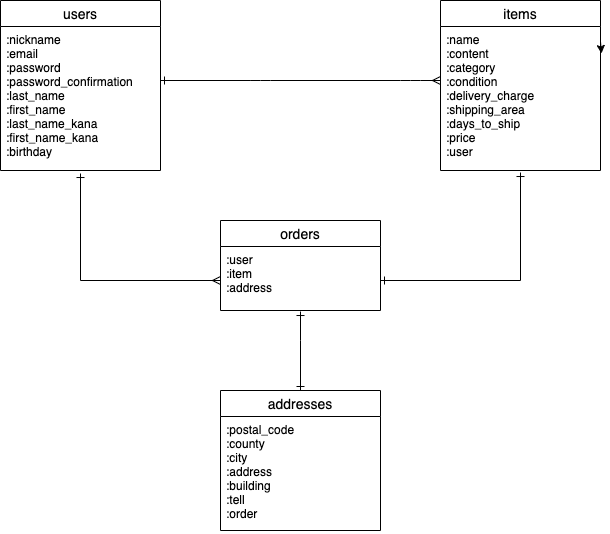
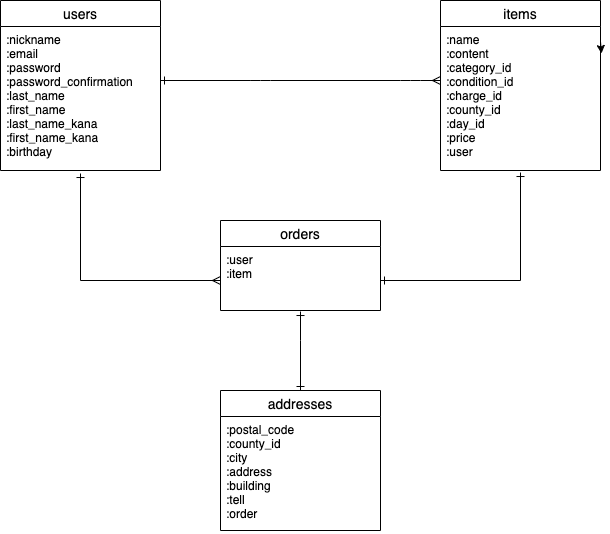
修正①

Changed region(s): [[0.7475, 0.1199, 0.8721, 0.2397], [0.3738, 0.5094, 0.4361, 0.5693], [0.4361, 0.809, 0.4672, 0.839]]

diff --git a/README.md b/README.md
@@ -22,11 +22,11 @@
 | --------------------- | ---------- | ------------------------------ |
 | name                  | string     | null: false                    |
 | content               | text       | null: false                    |
-| category              | string     | null: false                    |
-| condition             | string     | null: false                    |
-| delivery_charge       | string     | null: false                    |
-| shipping_area         | string     | null: false                    |
-| days_to_ship          | integer    | null: false                    |
+| category_id           | integer    | null: false                    |
+| condition_id          | integer    | null: false                    |
+| charge_id             | integer    | null: false                    |
+| county_id             | integer    | null: false                    |
+| day_id                | integer    | null: false                    |
 | price                 | integer    | null: false                    |
 | user                  | references | null: false, foreign_key: true |
 
@@ -40,7 +40,6 @@
 | ------- | ---------- | ------------------------------ |
 | user    | references | null: false, foreign_key: true |
 | item    | references | null: false, foreign_key: true |
-| address | references | null: false, foreign_key: true |
 
 ### Association
 - belongs_to :user
@@ -51,12 +50,12 @@
 
 | Column       | Type       | Options                        |
 | -------------| ---------- | ------------------------------ |
-| postal_code  | integer    | null: false                    |
-| county       | text       | null: false                    |
+| postal_code  | string     | null: false                    |
+| county_id    | integer    | null: false                    |
 | city         | string     | null: false                    |
 | address      | string     | null: false                    |
 | building     | string     |                                |
-| tell         | integer    | null: false                    |
+| tell         | string     | null: false                    |
 | order        | references | null: false, foreign_key: true |
 
 ### Association
